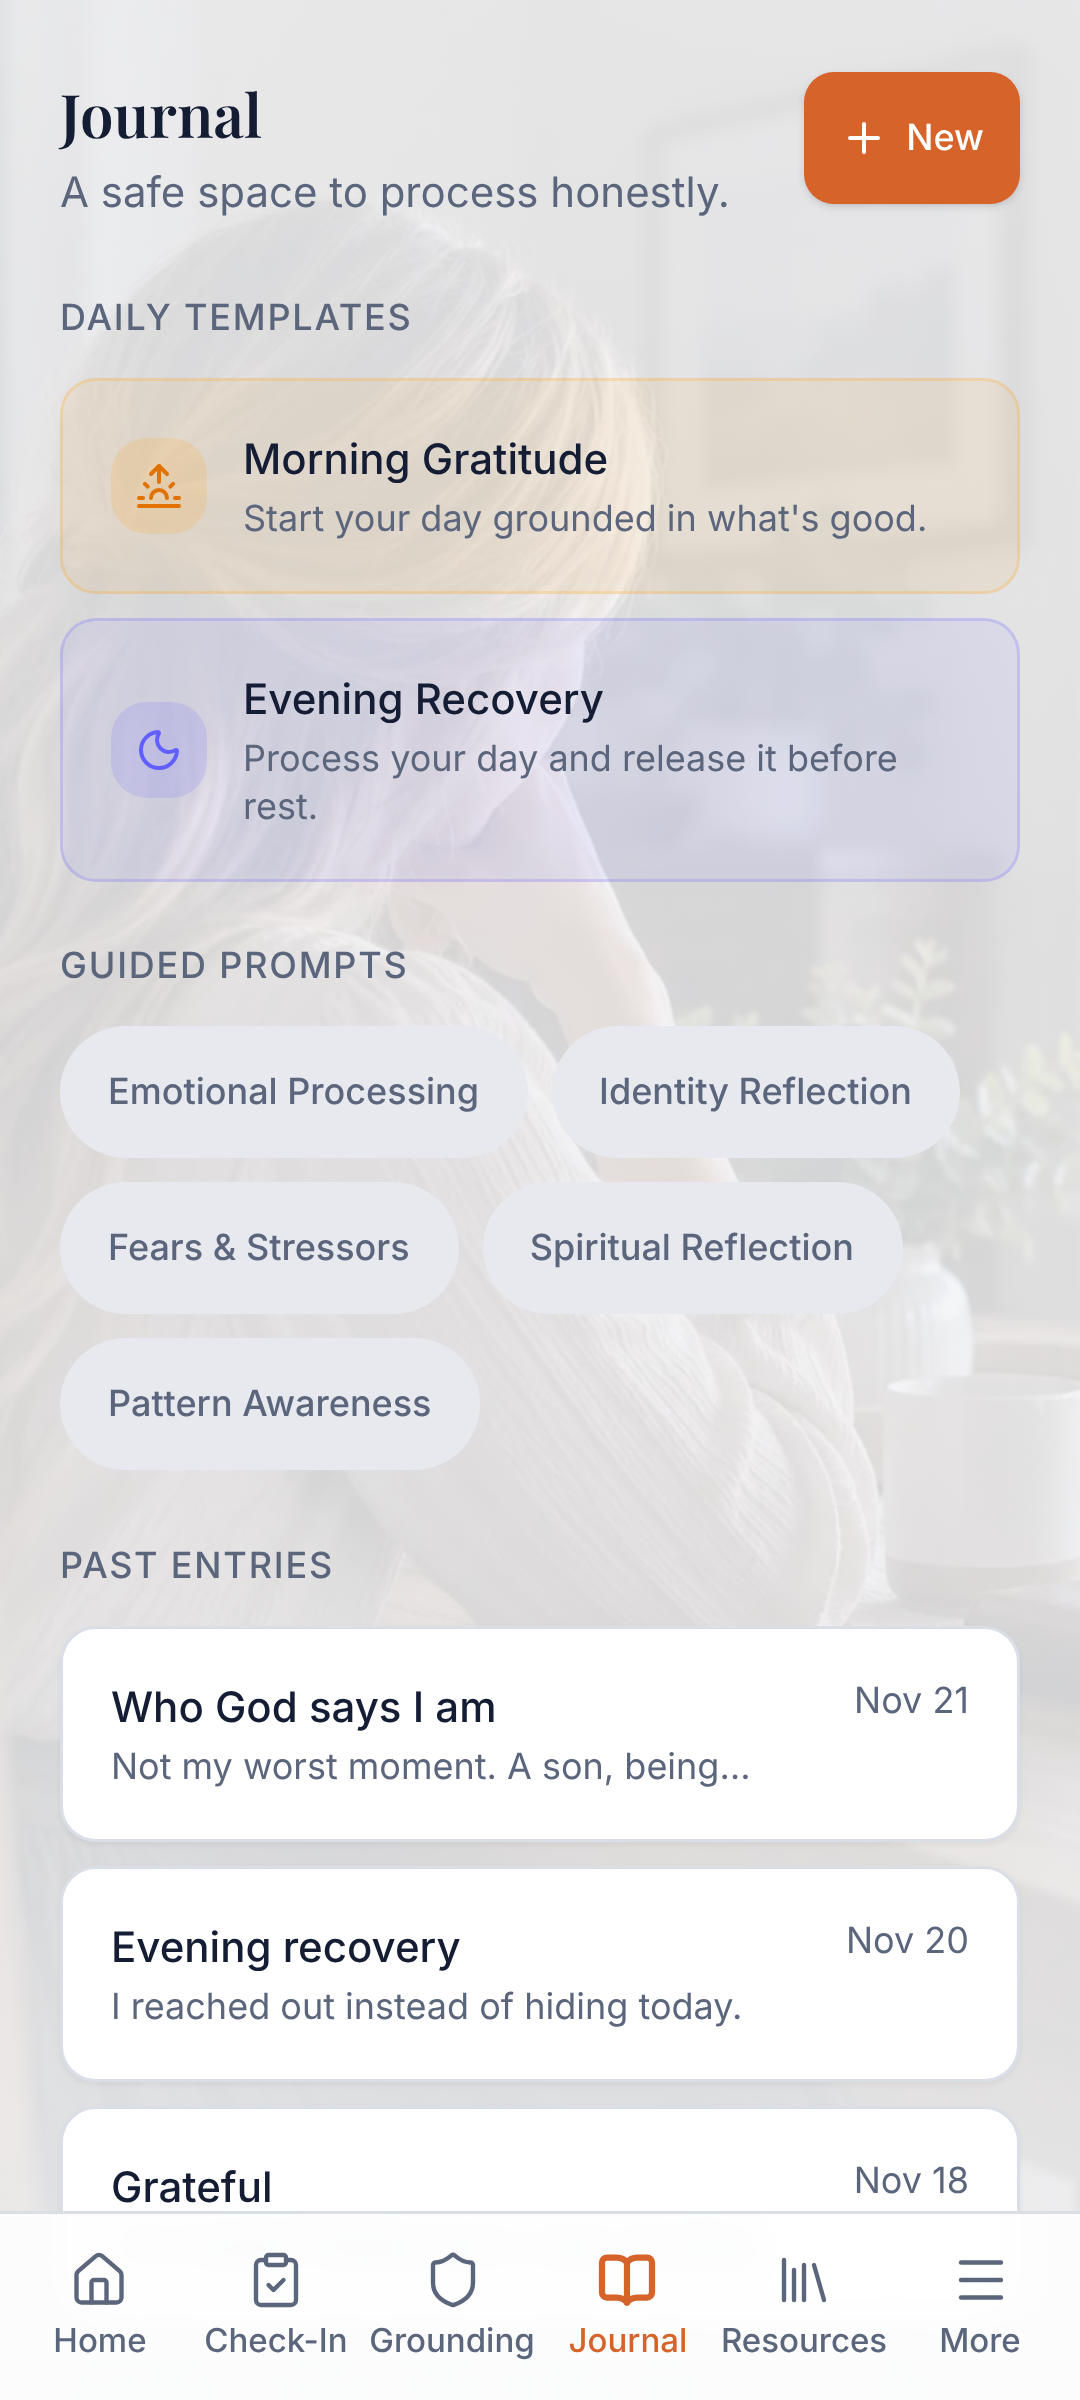
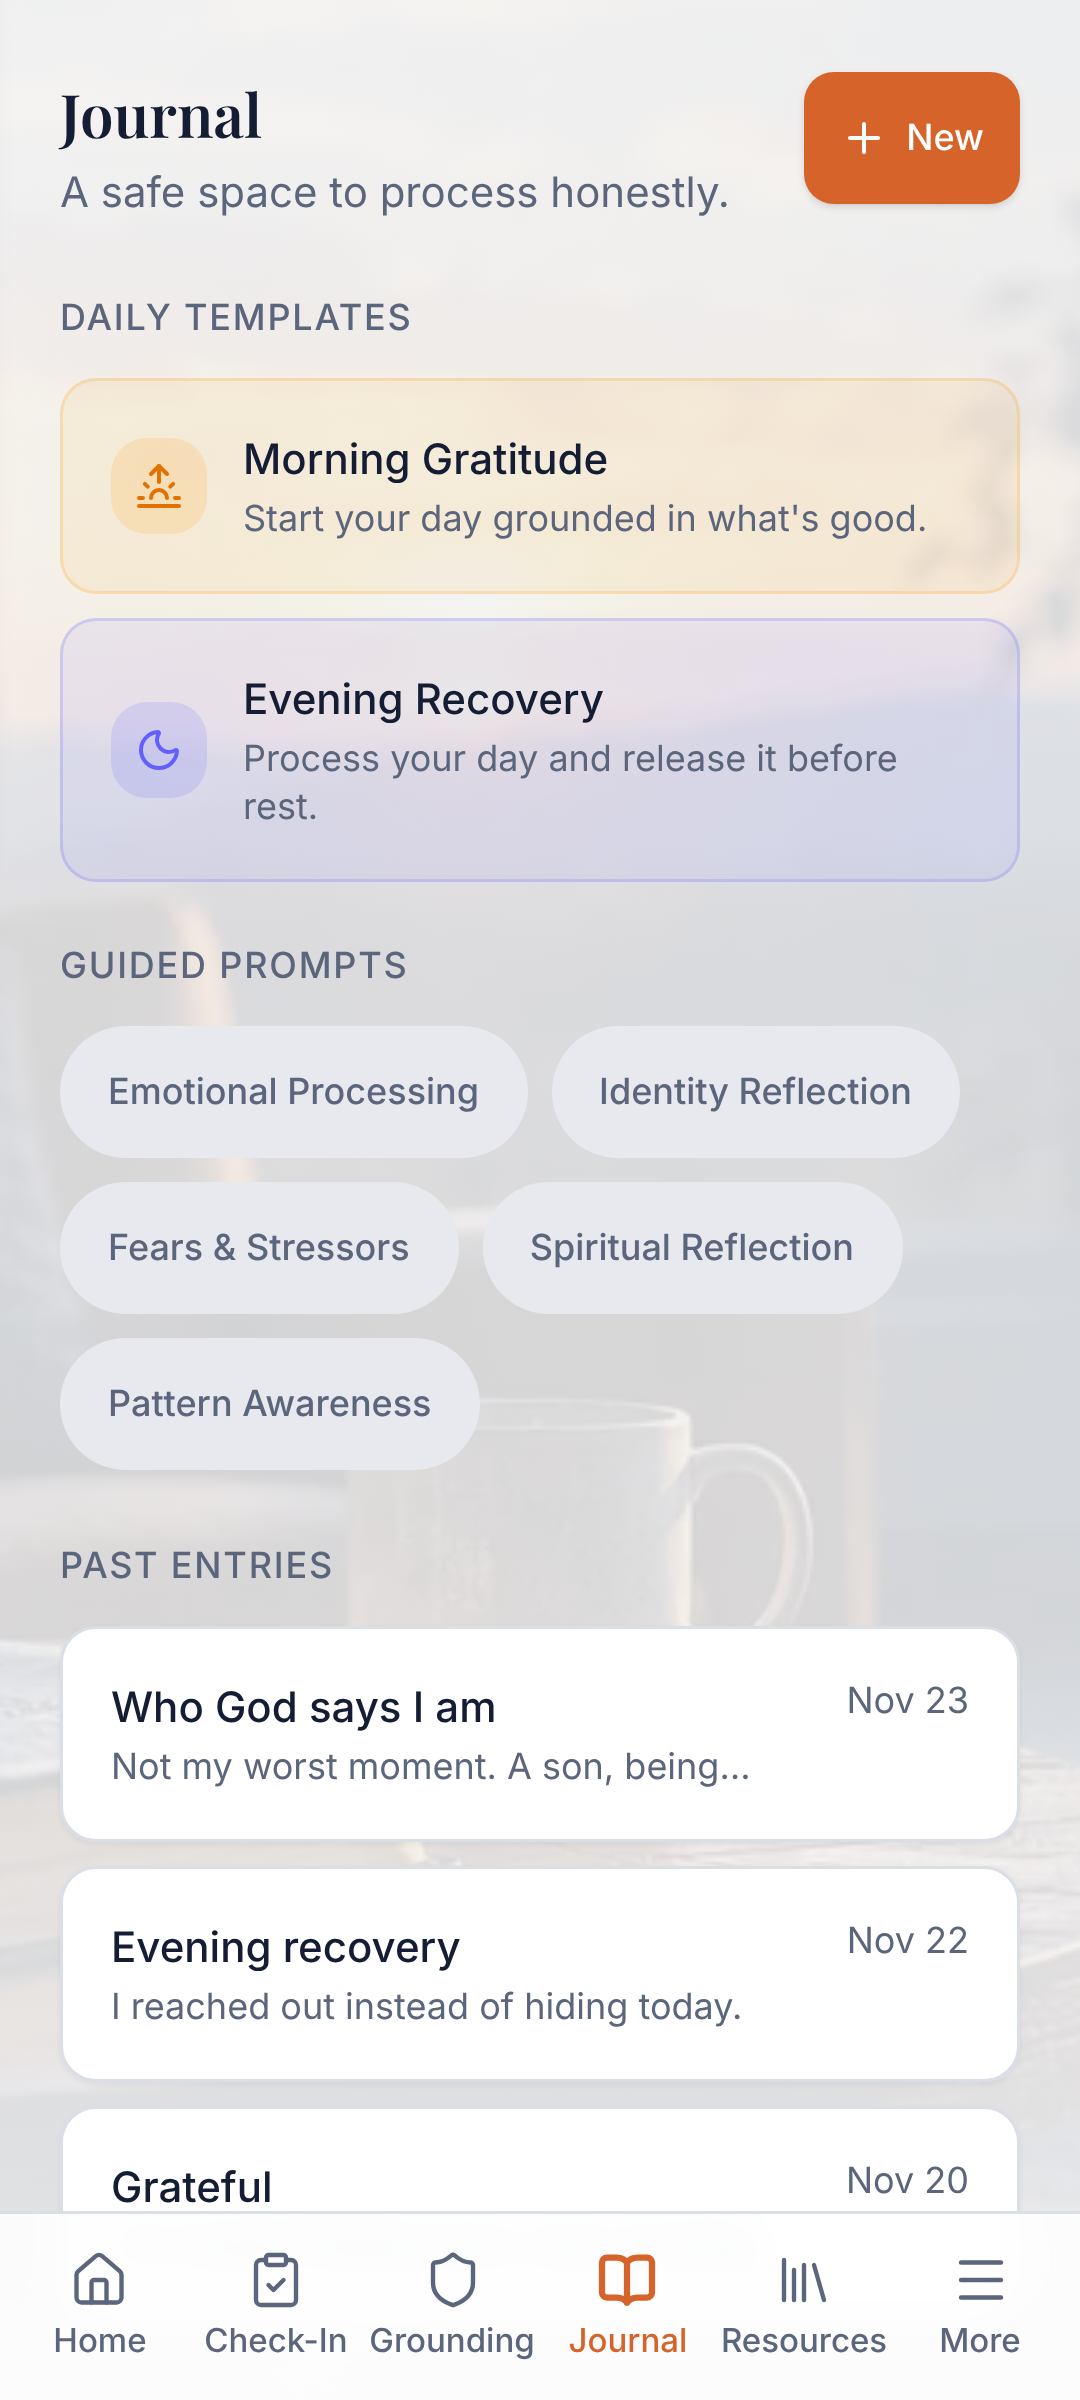
Show the men's track only photos without women
The men's track (and screens where the track isn't known yet) now only
sees the sunset study photo and a crop of the pastoral counsel photo
showing just the pastor and the man. The phone-scrolling photo is never
shown to men. The spouse track keeps the full set. A guard falls back to
the sunset photo if a future mapping ever picks a restricted photo for
men, and unit tests cover it. Store screenshots regenerated.

Claude-Session: https://claude.ai/code/session_01TEFAANzDiQcpsyVRuxpyzX

diff --git a/src/components/PageBackground.tsx b/src/components/PageBackground.tsx
@@ -1,40 +1,63 @@
 import { useLocation } from 'react-router'
 import { paths } from '@/app/routes'
+import { useProfile } from '@/data/queries'
+import type { Track } from '@/data/types'
+import { useAuth } from '@/lib/auth'
 
 /**
  * Faded photo behind each screen. The photo sits under a heavy wash of the
  * theme's background color (navy in dark mode, soft grey-white in light), so
  * it reads as atmosphere and never competes with the text.
+ *
+ * The men's track (and anyone whose track isn't known yet) only ever sees
+ * photos without women in them, and never the photo of someone scrolling a
+ * phone. The spouse track uses the full set.
  */
 
 const PHOTOS = {
   sunset: { src: '/backgrounds/sunset-study.webp', position: '22% 50%' },
   reflection: { src: '/backgrounds/quiet-reflection.webp', position: '30% 50%' },
   counsel: { src: '/backgrounds/pastoral-counsel.webp', position: '50% 40%' },
+  /** Cropped to the pastor and the man only. */
+  counselMen: { src: '/backgrounds/pastoral-counsel-men.webp', position: '60% 40%' },
   screens: { src: '/backgrounds/screens.webp', position: '50% 50%' },
 } as const
 
 type Photo = keyof typeof PHOTOS
 
-/** Which photo each screen uses. Screens not listed (Settings, Privacy) stay plain. */
-const ROUTE_PHOTOS: Record<string, Photo> = {
-  [paths.signIn]: 'sunset',
-  [paths.resetPassword]: 'sunset',
-  [paths.welcome]: 'sunset',
-  [paths.home]: 'sunset',
-  [paths.grounding]: 'sunset',
-  [paths.identity]: 'sunset',
-  [paths.checkIn]: 'reflection',
-  [paths.journal]: 'reflection',
-  [paths.resources]: 'counsel',
-  [paths.library]: 'counsel',
-  [paths.accountability]: 'counsel',
-  [paths.triggers]: 'screens',
+/** Photos the men's track may see: no women, no phone-scrolling. */
+const MEN_SAFE: ReadonlySet<Photo> = new Set<Photo>(['sunset', 'counselMen'])
+
+/** Which photo each screen uses, per track. Screens not listed (Settings, Privacy) stay plain. */
+const ROUTE_PHOTOS: Record<string, Record<Track, Photo>> = {
+  [paths.signIn]: { men: 'sunset', spouse: 'sunset' },
+  [paths.resetPassword]: { men: 'sunset', spouse: 'sunset' },
+  [paths.welcome]: { men: 'sunset', spouse: 'sunset' },
+  [paths.home]: { men: 'sunset', spouse: 'sunset' },
+  [paths.grounding]: { men: 'sunset', spouse: 'sunset' },
+  [paths.identity]: { men: 'sunset', spouse: 'sunset' },
+  [paths.checkIn]: { men: 'sunset', spouse: 'reflection' },
+  [paths.journal]: { men: 'sunset', spouse: 'reflection' },
+  [paths.resources]: { men: 'counselMen', spouse: 'counsel' },
+  [paths.library]: { men: 'counselMen', spouse: 'counsel' },
+  [paths.accountability]: { men: 'counselMen', spouse: 'counsel' },
+  [paths.triggers]: { men: 'sunset', spouse: 'screens' },
+}
+
+/** The photo for a screen. Unknown track is treated as the men's track. */
+export function photoFor(pathname: string, track: Track | null): Photo | null {
+  const choice = ROUTE_PHOTOS[pathname.toLowerCase()]
+  if (!choice) return null
+  const photo = choice[track ?? 'men']
+  // Guard against a future mapping mistake ever showing men a restricted photo.
+  return track === 'spouse' || MEN_SAFE.has(photo) ? photo : 'sunset'
 }
 
 export function PageBackground() {
   const { pathname } = useLocation()
-  const name = ROUTE_PHOTOS[pathname.toLowerCase()]
+  const { state } = useAuth()
+  const profile = useProfile({ enabled: state.status === 'signed-in' })
+  const name = photoFor(pathname, profile.data?.track ?? null)
   if (!name) return null
   const photo = PHOTOS[name]
   return (

diff --git a/tests/unit/pageBackground.test.ts b/tests/unit/pageBackground.test.ts
@@ -1,0 +1,42 @@
+import { describe, expect, it } from 'vitest'
+import { photoFor } from '@/components/PageBackground'
+
+const ALL_ROUTES = [
+  '/sign-in',
+  '/reset-password',
+  '/welcome',
+  '/home',
+  '/grounding',
+  '/identity',
+  '/check-in',
+  '/journal',
+  '/resources',
+  '/library',
+  '/accountability',
+  '/triggers',
+]
+
+describe('page backgrounds', () => {
+  it('never shows the men’s track a photo with women or phone-scrolling', () => {
+    for (const route of ALL_ROUTES) {
+      expect(['sunset', 'counselMen']).toContain(photoFor(route, 'men'))
+    }
+  })
+
+  it('treats an unknown track (signed out, onboarding) like the men’s track', () => {
+    for (const route of ALL_ROUTES) {
+      expect(['sunset', 'counselMen']).toContain(photoFor(route, null))
+    }
+  })
+
+  it('keeps the full set for the spouse track', () => {
+    expect(photoFor('/journal', 'spouse')).toBe('reflection')
+    expect(photoFor('/accountability', 'spouse')).toBe('counsel')
+    expect(photoFor('/triggers', 'spouse')).toBe('screens')
+  })
+
+  it('leaves Settings and Privacy plain', () => {
+    expect(photoFor('/settings', 'men')).toBeNull()
+    expect(photoFor('/privacy', 'spouse')).toBeNull()
+  })
+})

diff --git a/src/data/queries.ts b/src/data/queries.ts
@@ -32,10 +32,11 @@ export const keys = {
 // Profile
 // ---------------------------------------------------------------------------
 
-export function useProfile() {
+export function useProfile({ enabled = true }: { enabled?: boolean } = {}) {
   return useQuery({
     queryKey: keys.profile,
     queryFn: async () => (await backend.table('profiles').list({ limit: 1 }))[0] ?? null,
+    enabled,
   })
 }
 
